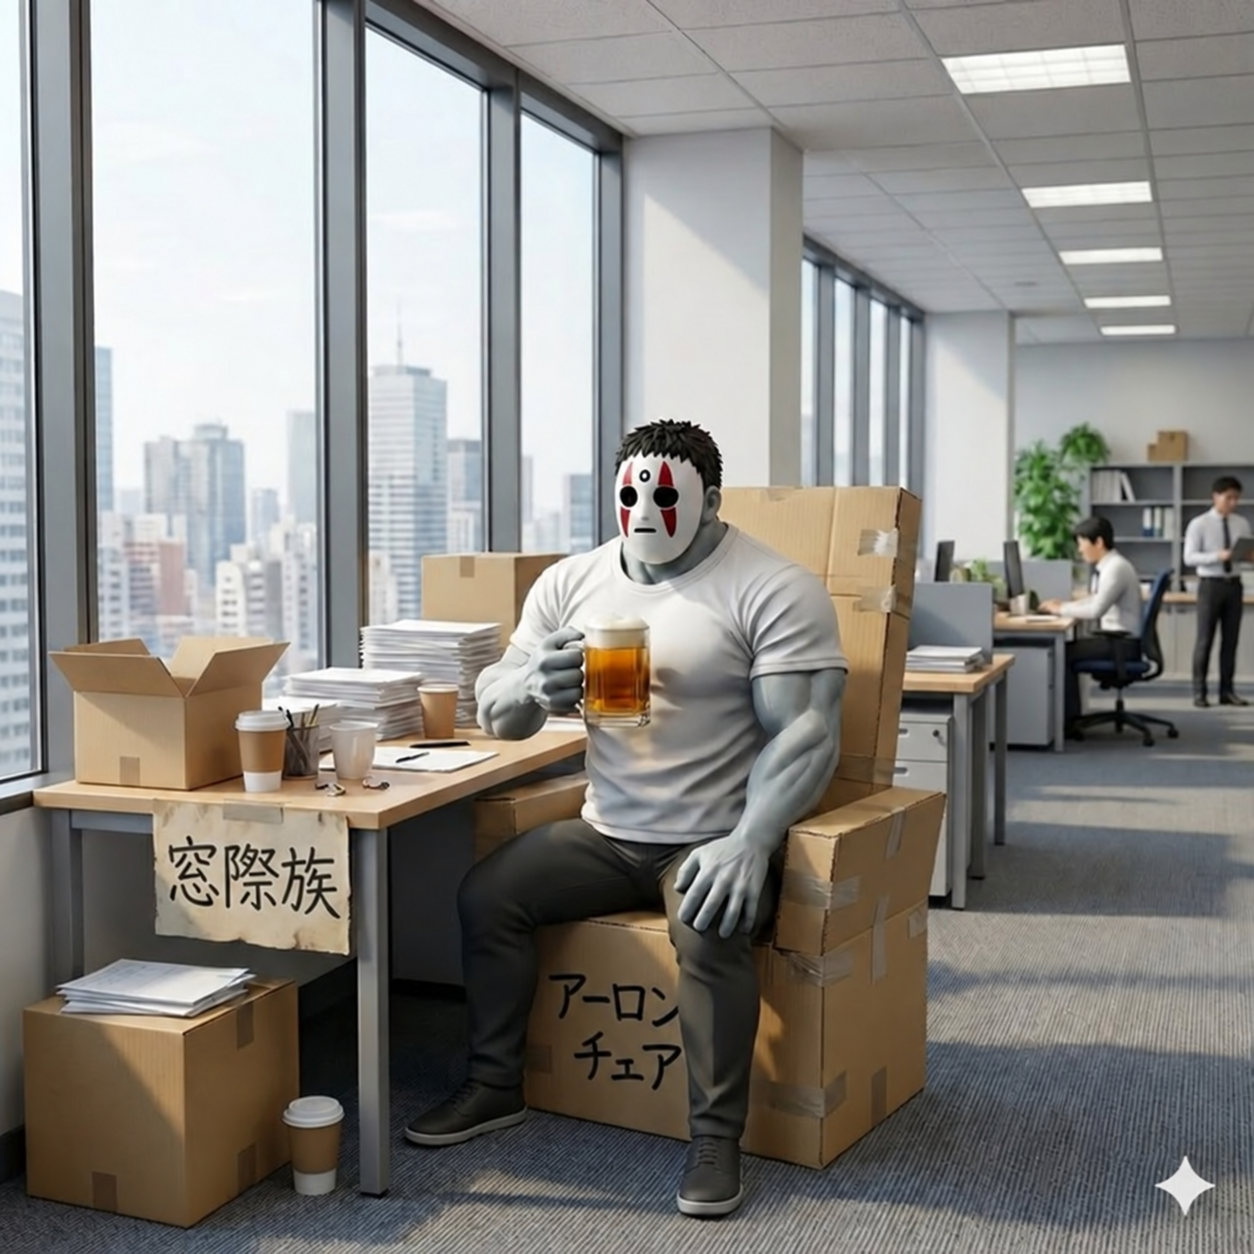
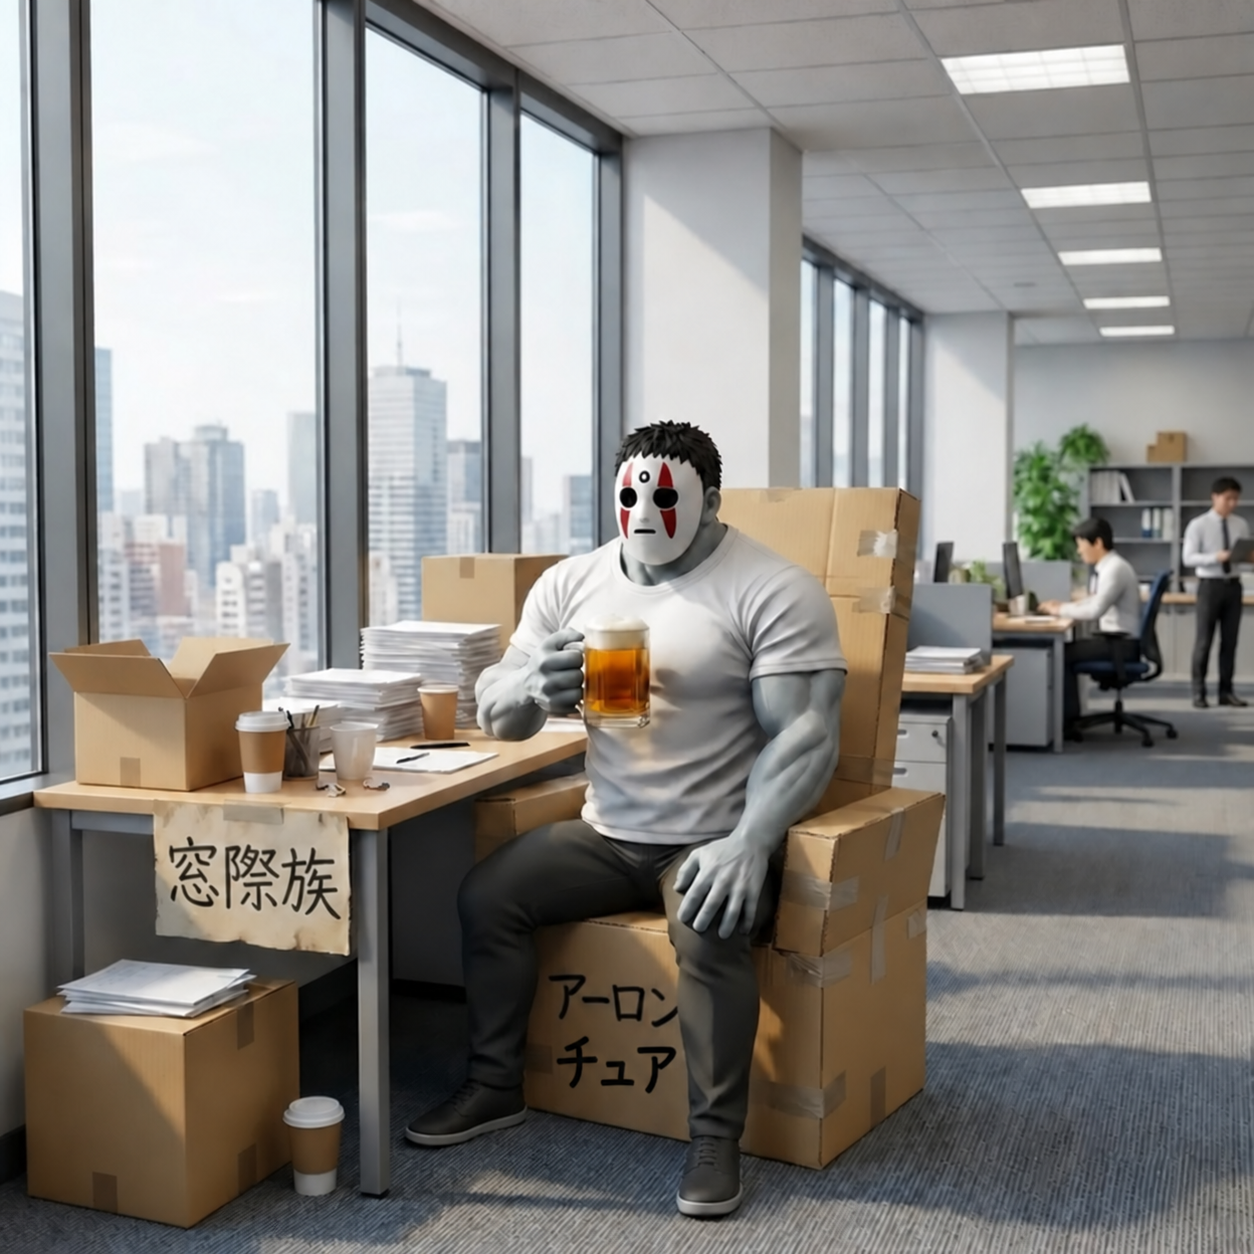
Clarify Chua lettering and label final chapter chair

diff --git a/16_MADOGIWA_STUDIO/src/lib/site-content.ts b/16_MADOGIWA_STUDIO/src/lib/site-content.ts
@@ -11,7 +11,7 @@ export const characters = [
 
 export const comicEpisodes = [
   { title: "入社", description: "そば屋がワクワク気分で入社。用意された椅子は「AERON CHUA」と手書きされた段ボール箱だったが、本人はもちろん快適です！" },
-  { title: "僕の席", image: "/site/comic/episode-02-chua.webp", description: "本来の席はオフィスの窓際。机には「窓際族」の貼り紙があり、段ボール椅子の表記だけは「アーロンチュア」に訂正されていた。" },
+  { title: "僕の席", image: "/site/comic/episode-02-chua-v2.webp", description: "本来の席はオフィスの窓際。机には「窓際族」の貼り紙があり、段ボール椅子の表記だけは「アーロンチュア」に訂正されていた。" },
   { title: "ベランダ席", description: "翌朝、席はビル外壁のベランダへ。冬の寒ささえ「ビールが冷えたまま」というメリットに変えてしまう。" },
   { title: "立ち飲み処 開店", description: "会社が自由ならこちらも自由に。ベランダへ暖簾と赤提灯を掲げ、とーくんのウクレレをBGMに立ち飲み処が開店する。" },
   { title: "ビールサーバ到着", description: "待望のビールサーバが到着し、ジョッキtoジョッキを卒業。「やめさん確保でビール永久無料キャンペーン」が始まる。" },
@@ -24,7 +24,7 @@ export const comicEpisodes = [
   { title: "脱走", description: "よーたんが差し入れを持って訪ねると、壁には巨大な人型の穴。そば屋と無職やめ太郎は壁を破って脱走していた。" },
   { title: "窓際王おかやまん", description: "都内某社の窓際会議室に、窓際王おかやまんがリモート出演。そば屋とやめ太郎の脱走を許したという報告に驚きを示す。" },
   { title: "ゆめみ地下帝国 構想会議", image: "/site/comic/chapter-14.webp", description: "窓際十人衆（Windows 10）の野望が明らかに。おかやまんは2人を捕え、ゆめみ地下懲罰房へ送るよう命じる。" },
-  { title: "BONK", image: "/site/comic/episode-14.webp", description: "窓際で居眠りするそば屋を、ゆめみんが木槌でBONK! 夢だったように思えた一連の出来事は、すべて現実である。" },
+  { title: "BONK", image: "/site/comic/episode-15-chua.webp", description: "窓際で居眠りするそば屋を、ゆめみんが木槌でBONK! 夢だったように思えた一連の出来事は、すべて現実である。" },
 ].map((episode, index) => ({
   ...episode,
   number: index + 1,

diff --git a/01_WORLD/story_timeline/episode_02_edit.md b/01_WORLD/story_timeline/episode_02_edit.md
@@ -6,3 +6,8 @@
 
 ## 使用プロンプト
 Use case: text-localization. Edit the provided original manga episode image with a single extremely localized correction. On the cardboard chair front between the seated masked man's legs, the handwritten black Japanese currently says アーロン on first line and チェア on second line. Change ONLY the small ェ in チェア to small ュ so the inscription reads exactly アーロンチュア, arranged first line アーロン, second line チュア. This intentionally misspelled fictional chair name must NOT be corrected to アーロンチェア. Preserve the original rough handwritten black marker style, size, placement, perspective and cardboard texture. Preserve the entire original square image: identical man face mask body hands pose beer mug, cardboard chair shape, desk, 窓際族 sign, windows, background people, lighting, color, composition and bottom-right white sparkle. No new objects, no reframing, no aesthetic enhancement. Return the complete square image with only this tiny lettering fix.
+
+## 再修正
+内蔵Imagegenで「チュア」を幅広く描き直し、小さい「ュ」の縦線を右端へ明確化。配信用は episode-02-chua-v2.webp。
+
+Prompt: Rewrite ONLY the lower word as チュア in highly legible black handwritten BLOCK katakana, slightly wider and larger. Draw ュ as unmistakable small ユ with a long horizontal top, vertical downstroke at the far right end, and horizontal baseline extending left. No central vertical stroke. Preserve all other content and square framing.

diff --git a/01_WORLD/story_timeline/episode_15_edit.md b/01_WORLD/story_timeline/episode_15_edit.md
@@ -1,0 +1,6 @@
+# 第15話 椅子の文字追加
+
+2026-09-13、内蔵Imagegenで編集。正本 episode_15.jpeg。配信用 episode-15-chua.webp。
+
+## Prompt
+Add アーロンチュア to the blank front cardboard chair panel between the man’s legs. Two lines: アーロン / チュア. Black hand-drawn katakana matching comic ink lines, cardboard perspective and cel-shaded manga style. Draw small ュ with the vertical stroke at the right edge, never center. Preserve existing composition, landscape aspect ratio, BONK lettering, wanted poster, masked man, flying blue tapir, mallet, beer splash, office, desk sign and colors. Only add the chair label.
